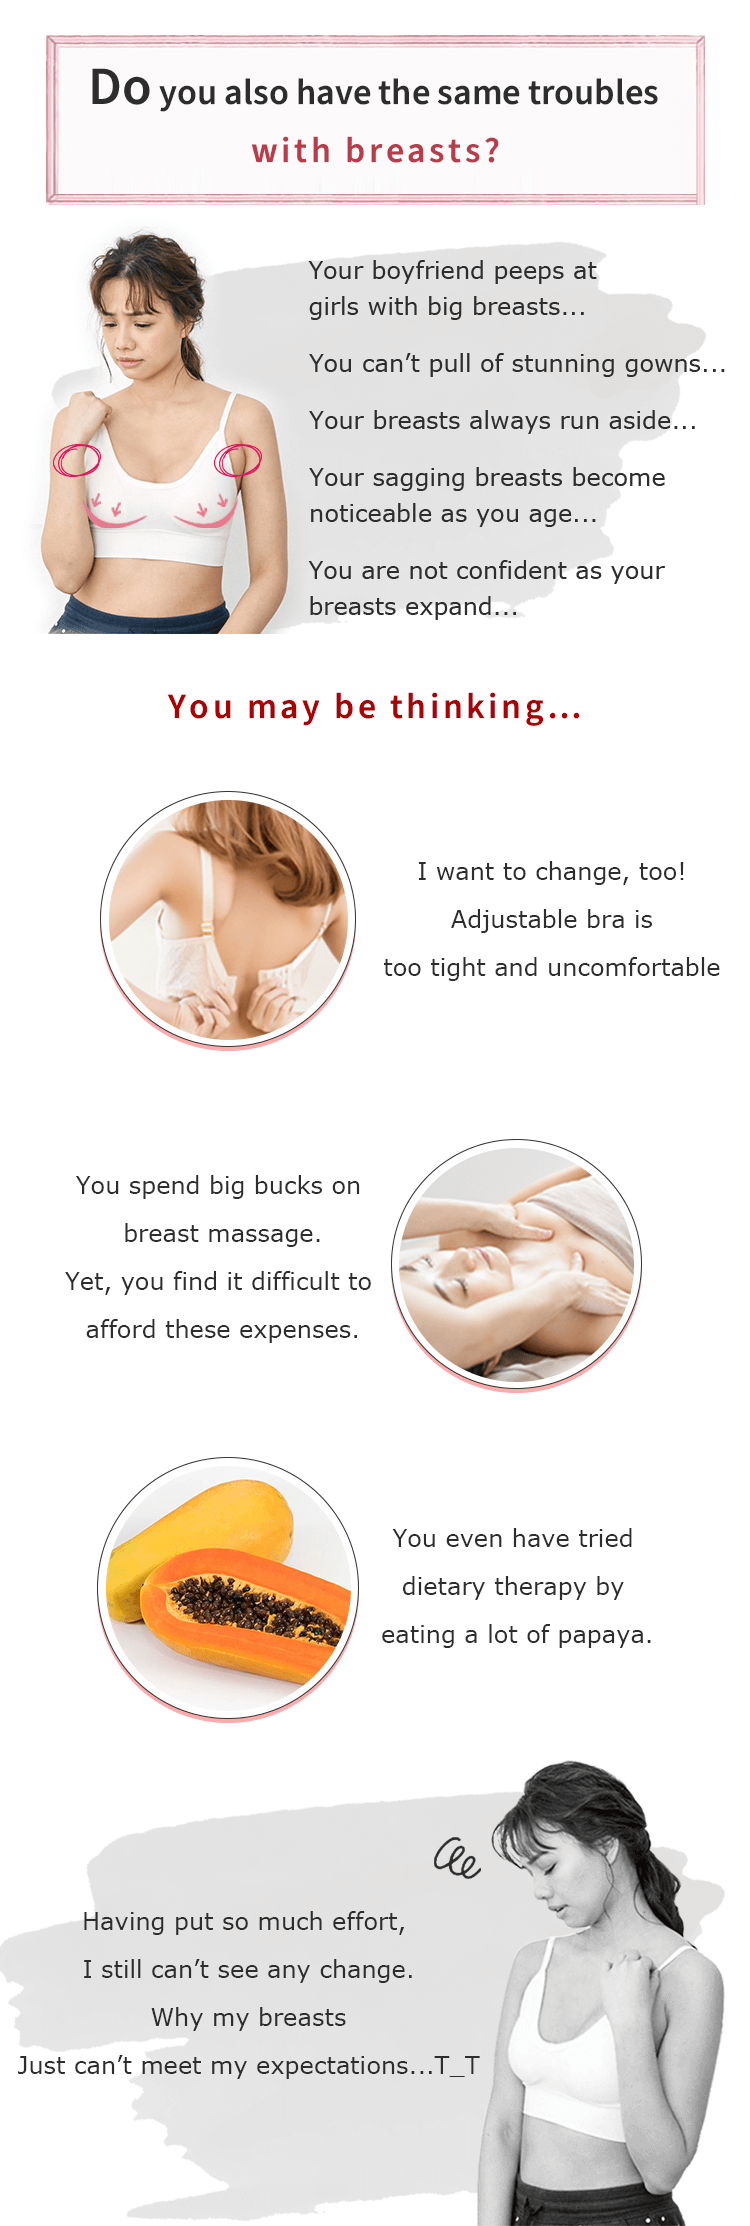
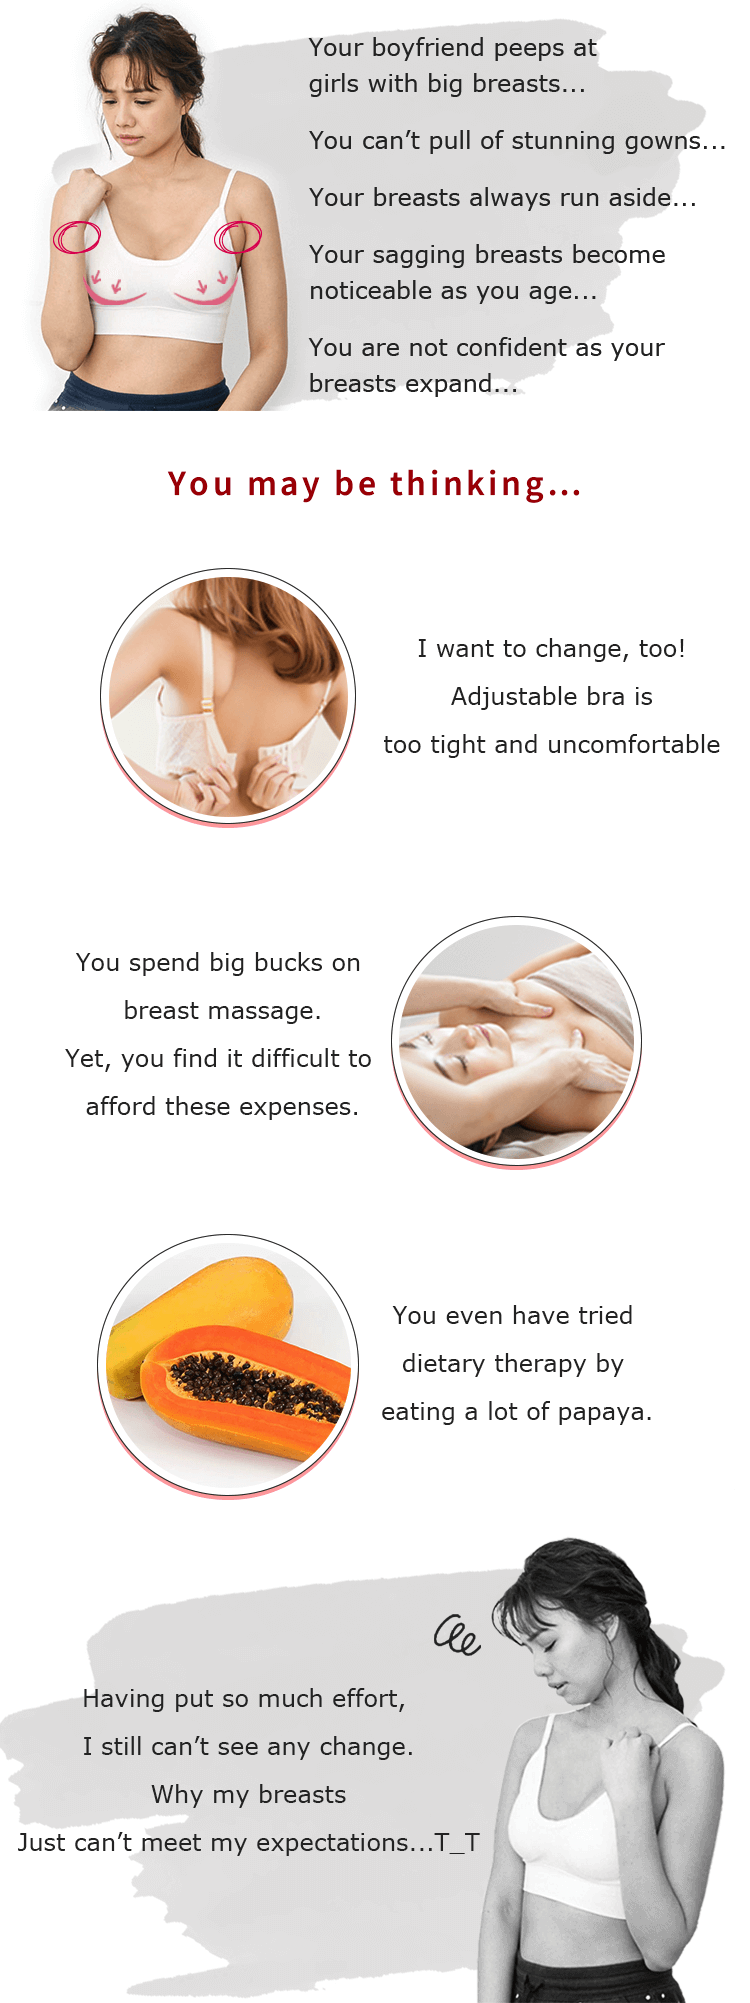
20220622_hide area

diff --git a/index.html b/index.html
@@ -49,7 +49,7 @@
 
         gtag('config', 'UA-215569553-1');
     </script>
-    
+
     <!-- Google Tag Manager 20211210-->
     <script>(function (w, d, s, l, i) {
             w[l] = w[l] || []; w[l].push({
@@ -118,14 +118,17 @@
                             <img class="offerbtn lozad" id="buy01" src="./img/offerbtn.jpg" alt="">
                         </a>
                     </div>
-                    <img src="./img/06.png" style="width:70%;" alt="">
-                    <img src="./img/07.png" style="width:70%;" alt="">
-                    <img src="./img/08.png" style="width:70%;" alt="">
-                    <div class="offerbox">
-                        <img src="./img/05.png" style="width:70%;" alt="">
-                        <a href="#size">
-                            <img class="offerbtn lozad" id="buy02" src="./img/offerbtn.jpg" alt="">
-                        </a>
+                    <img src="./img/06_top.png" style="width:70%;cursor: pointer;" alt="" class="toggle_btn">
+                    <div class="toggle_area" style="display: none;">
+                        <img src="./img/06.png" style="width:70%;" alt="">
+                        <img src="./img/07.png" style="width:70%;" alt="">
+                        <img src="./img/08.png" style="width:70%;" alt="">
+                        <div class="offerbox">
+                            <img src="./img/05.png" style="width:70%;" alt="">
+                            <a href="#size">
+                                <img class="offerbtn lozad" id="buy02" src="./img/offerbtn.jpg" alt="">
+                            </a>
+                        </div>
                     </div>
                     <img src="./img/10.png" style="width:70%;" alt="">
                     <img src="./img/11.png" style="width:70%;" alt="">
@@ -159,19 +162,22 @@
                             <img class="offerbtn_m offerbtn_m_2 lozad" id="buy01-2" src="./img/offerbtn.jpg" alt="">
                         </a>
                     </div>
-                    <img src="./img/SP/SP_06.png" alt="">
-                    <img src="./img/SP/SP_07.png" alt="">
-                    <img src="./img/SP/SP_08.png" alt="">
-                    <div class="offerbox_m">
-                        <img src="./img/SP/SP_05.png" alt="">
-                        <a href="#size">
-                            <img class="offerbtn_m offerbtn_m_1 lozad" id="buy02-1" src="./img/offerbtn.jpg" alt="">
-                        </a>
-                        <a href="#size">
-                            <img class="offerbtn_m offerbtn_m_2 lozad" id="buy02-2" src="./img/offerbtn.jpg" alt="">
-                        </a>
+                    <img src="./img/SP/SP_06_top.png" alt="" class="toggle_btn">
+                    <div class="toggle_area" style="display: none;">
+                        <img src="./img/SP/SP_06.png" alt="">
+                        <img src="./img/SP/SP_07.png" alt="">
+                        <img src="./img/SP/SP_08.png" alt="">
+                        <div class="offerbox_m">
+                            <img src="./img/SP/SP_05.png" alt="">
+                            <a href="#size">
+                                <img class="offerbtn_m offerbtn_m_1 lozad" id="buy02-1" src="./img/offerbtn.jpg" alt="">
+                            </a>
+                            <a href="#size">
+                                <img class="offerbtn_m offerbtn_m_2 lozad" id="buy02-2" src="./img/offerbtn.jpg" alt="">
+                            </a>
+                        </div>
+                        <img src="./img/SP/SP_10.png" alt="">
                     </div>
-                    <img src="./img/SP/SP_10.png" alt="">
                     <img src="./img/SP/SP_11.png" alt="">
                     <img src="./img/SP/SP_12.png" alt="">
                     <img src="./img/SP/SP_13_color_1.png" alt="">
@@ -192,6 +198,22 @@
                     <img src="./img/SP/SP_19.png" alt="">
                     <img src="./img/SP/SP_19_Q&A.png" alt="">
                 </div>
+                <!-- <div class="QA">
+                    <img src="./img/SP/SP_19_Q&A_01.png" alt="" class="Q1" style="cursor: pointer;">
+                    <img src="./img/SP/SP_19_Q&A_02.png" alt="" class="A1" style="display:none;cursor: pointer;">
+                    <img src="./img/SP/SP_19_Q&A_03.png" alt="" class="Q2" style="cursor: pointer;">
+                    <img src="./img/SP/SP_19_Q&A_04.png" alt="" class="A2" style="display:none;cursor: pointer;">
+                    <img src="./img/SP/SP_19_Q&A_05.png" alt="" class="Q3" style="cursor: pointer;">
+                    <img src="./img/SP/SP_19_Q&A_06.png" alt="" class="A3" style="display:none;cursor: pointer;">
+                    <img src="./img/SP/SP_19_Q&A_07.png" alt="" class="Q4" style="cursor: pointer;">
+                    <img src="./img/SP/SP_19_Q&A_08.png" alt="" class="A4" style="display:none;cursor: pointer;">
+                    <img src="./img/SP/SP_19_Q&A_09.png" alt="" class="Q5" style="cursor: pointer;">
+                    <img src="./img/SP/SP_19_Q&A_10.png" alt="" class="A5" style="display:none;cursor: pointer;">
+                    <img src="./img/SP/SP_19_Q&A_11.png" alt="" class="Q6" style="cursor: pointer;">
+                    <img src="./img/SP/SP_19_Q&A_12.png" alt="" class="A6" style="display:none;cursor: pointer;">
+                    <img src="./img/SP/SP_19_Q&A_13.png" alt="" class="Q7" style="cursor: pointer;">
+                    <img src="./img/SP/SP_19_Q&A_14.png" alt="" class="A7" style="display:none;cursor: pointer;">
+                </div> -->
                 <div id="size">
                     <div class="PC">
                         <img src="./img/20_1.jpg" style="width:70%;" alt="">

diff --git a/js/all.js b/js/all.js
@@ -19,6 +19,11 @@ $(document).ready(function () {
         },900);
     });
 
+    $('.toggle_btn').click(function (e) { 
+        e.preventDefault();
+        $(".toggle_area").toggle();
+    });
+
     //偵測sns line btn 手機版還是電腦版，連結不同
     var vw=$(window).width();
     if (vw <= 768) {
